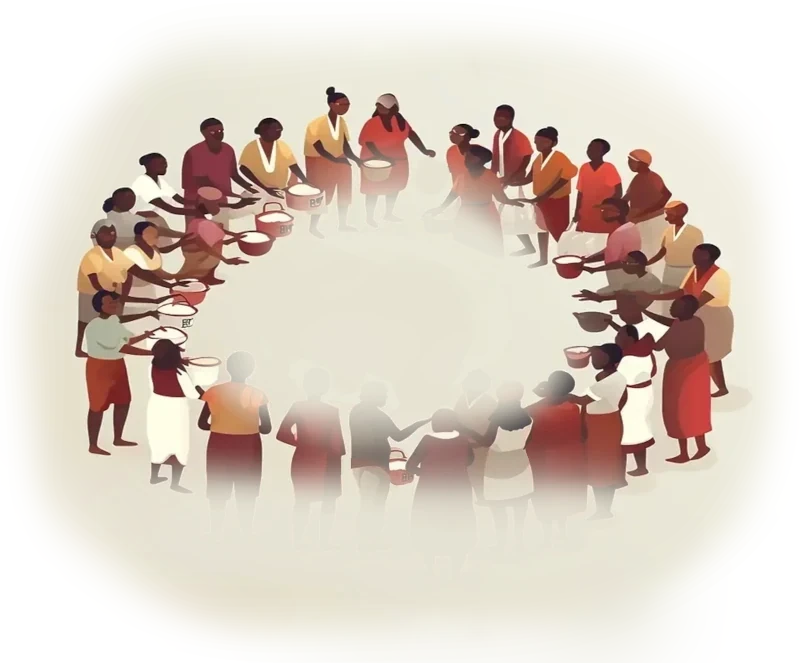
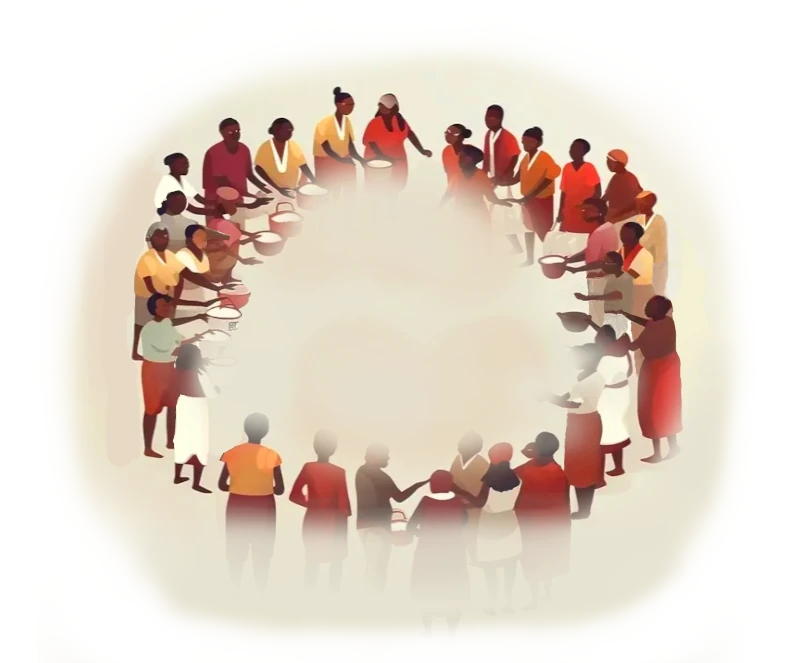
Tweak mobile hero image

diff --git a/components/hero.vue b/components/hero.vue
@@ -258,10 +258,9 @@ section.hero {
     .img-container {
         display: flex;
         justify-content: center;
-        height: 250px;
+        height: 663px;
         position: absolute;
         width: 100%;
-        height: 100%;
         overflow: hidden;
         z-index: 0;
         // display: none;
@@ -269,17 +268,18 @@ section.hero {
         .image {
             position: relative;
             width: 1000px;
-            height: auto;
+            height: 663px;
+            transform: scale(1.1);
             z-index: 0;
+            opacity: 70%;
 
             @media (max-width: 768px) {
-                opacity: 15%;
+                // opacity: 30%;
                 top: -6rem;
             }
 
             @media (max-width: 500px) {
-                opacity: 26%;
-                top: -11rem;
+                top: -8rem;
             }
         }
     }
